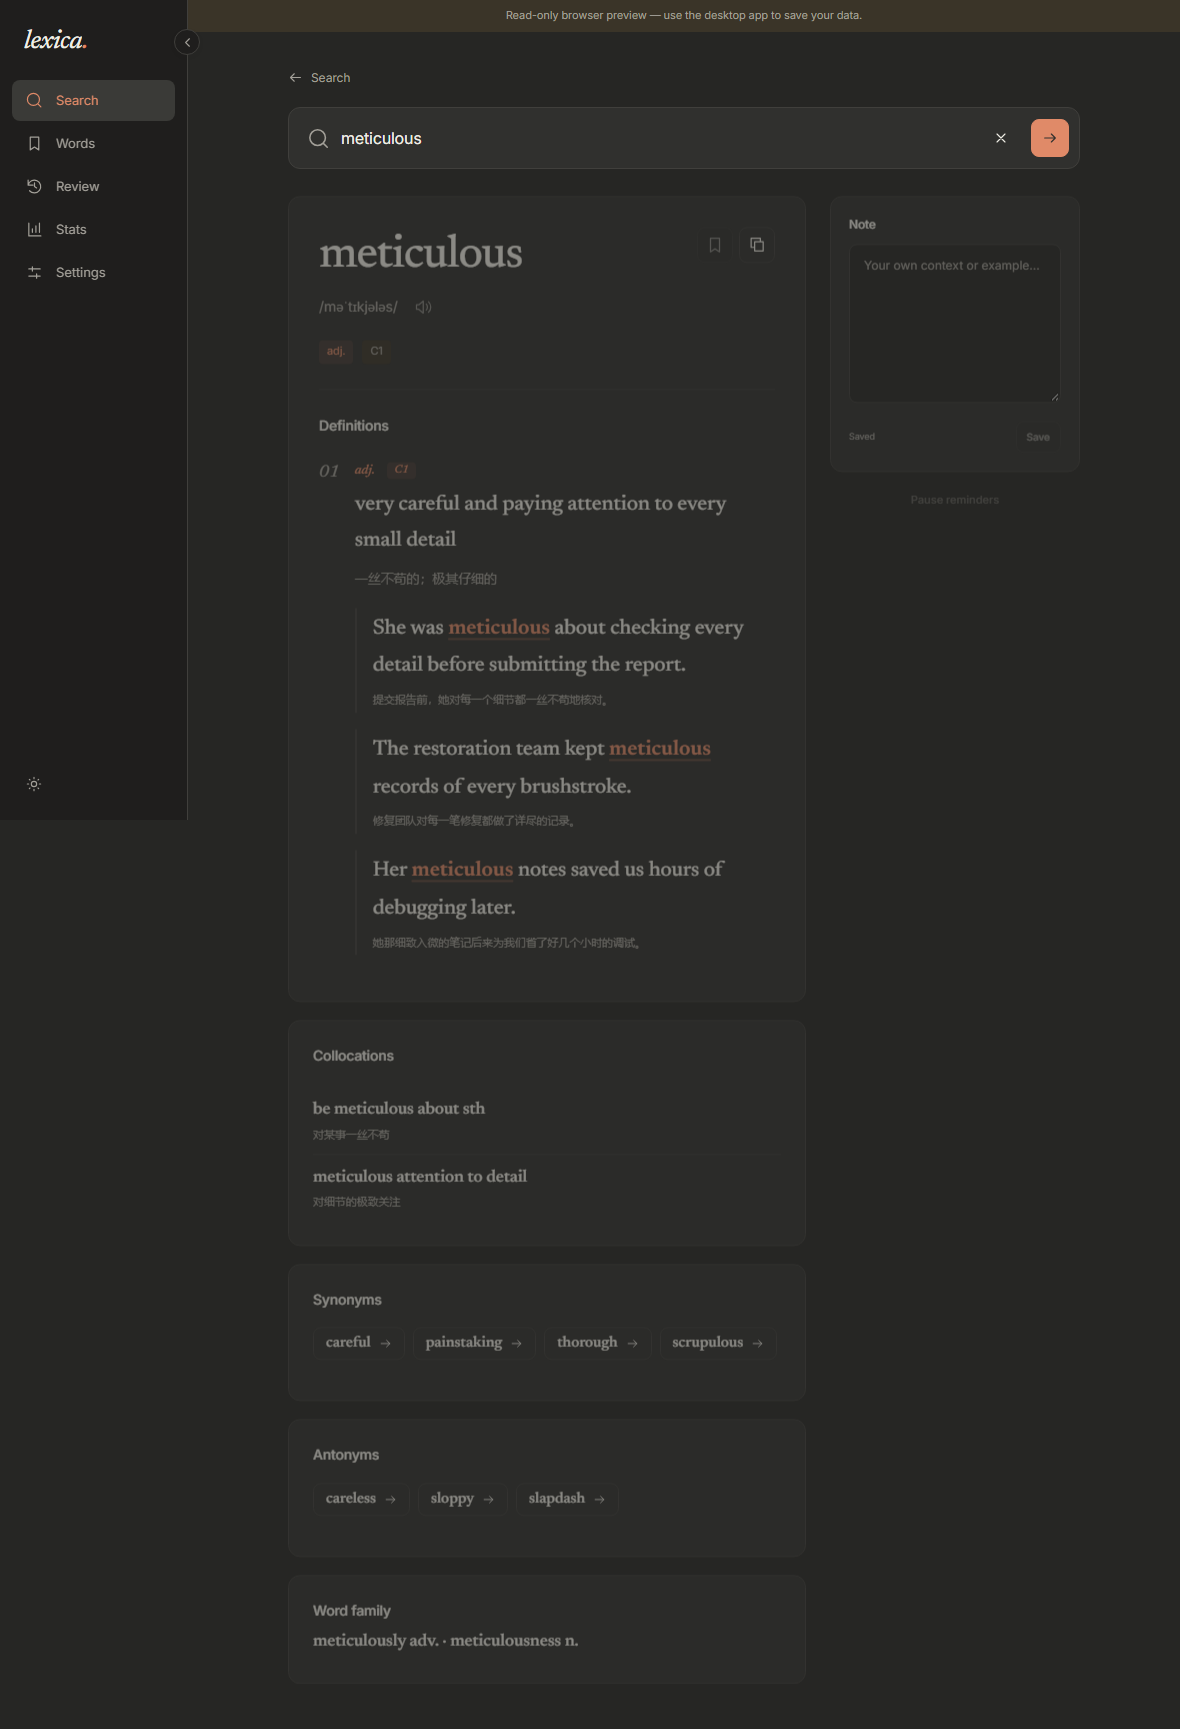
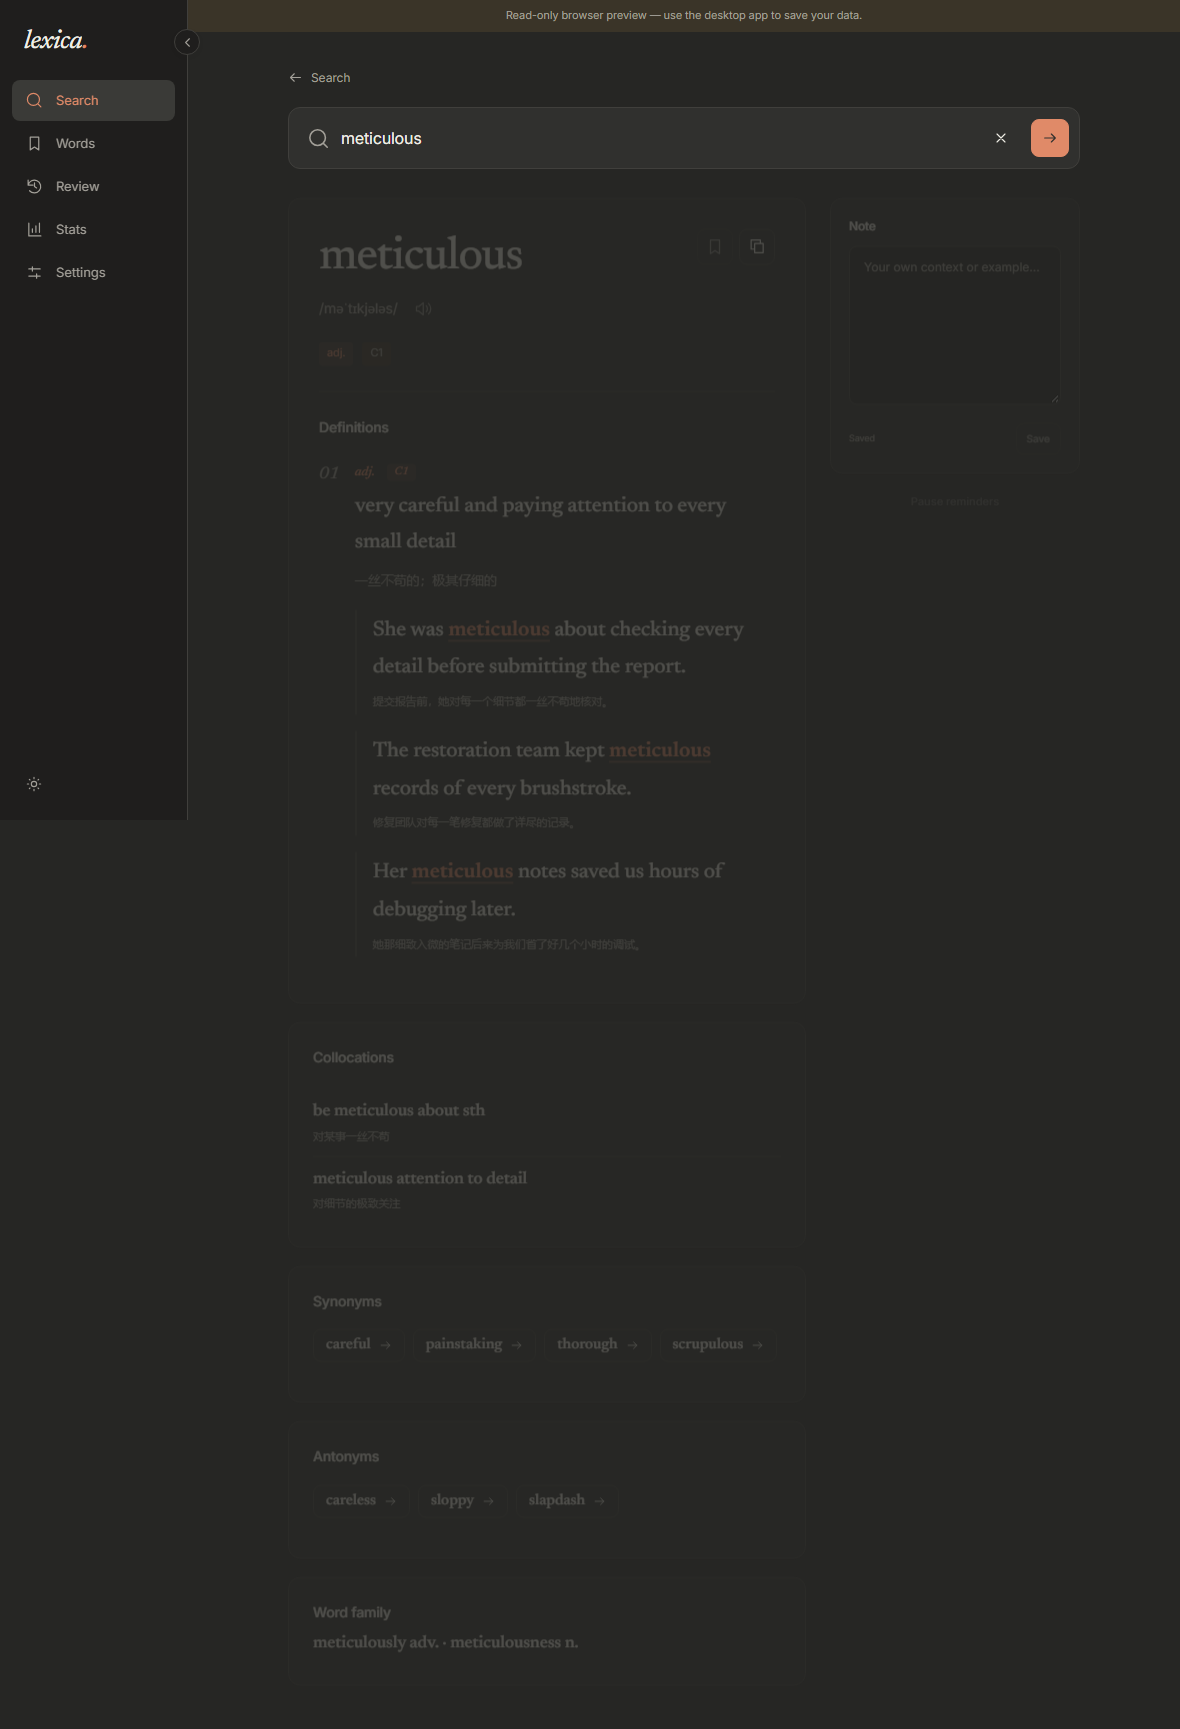
Document the project and add tag-triggered release CI
- Rewrite README: permanent download links, a feature tour that covers the
  optional AI example sentences, a screenshot gallery, the module layout and
  data model, build/release/test instructions, known limits, and the current
  license status.
- Add .github/workflows/release.yml: pushing a v* tag builds on Windows via
  tauri-action, runs svelte-check and the Rust tests first, publishes MSI and
  NSIS bundles, then uploads stable-named aliases so that
  /releases/latest/download/<fixed name> keeps working across versions.
- Capture the AI settings panel from the e2e suite and regenerate screenshots.

diff --git a/tests/app.spec.ts b/tests/app.spec.ts
@@ -881,6 +881,7 @@ test('AI settings: DeepSeek defaults, save, persistence and connection errors', 
 	await desktopFixture(page);
 	await page.goto('/settings');
 	await expect(page.getByRole('heading', { name: 'DeepSeek example sentences' })).toBeVisible();
+	await page.screenshot({ path: 'docs/screenshots/ai-settings.png', fullPage: true });
 	// Off by default.
 	await expect(page.getByRole('button', { name: 'Off', exact: true })).toHaveAttribute(
 		'aria-pressed',

diff --git a/README.md b/README.md
@@ -1,31 +1,169 @@
 # Lexica
 
-本地优先的英语词典：查词是理解的开始，逐渐不再需要查这个词，才是目的。
+> 本地优先的英语词典：查词是理解的开始，逐渐不再需要查这个词，才是目的。
 
-Tauri 2 · Rust · SQLite / FTS5 · SvelteKit 5。词库、收藏、笔记和学习记录保存在本机。
+[![release](https://img.shields.io/github/v/release/YinLingxiao/Lexica.)](https://github.com/YinLingxiao/Lexica./releases/latest)
+[![downloads](https://img.shields.io/github/downloads/YinLingxiao/Lexica./total)](https://github.com/YinLingxiao/Lexica./releases)
+![platform](https://img.shields.io/badge/platform-Windows%20x64-8a5a2b)
+![stack](https://img.shields.io/badge/Tauri%202-Rust%20%C2%B7%20SvelteKit%205-2f6f4e)
+
+**Tauri 2 · Rust · SQLite / FTS5 · SvelteKit 5**
+
+词库、收藏、笔记和学习记录全部保存在本机。除可选的 AI 例句补充外，应用不发起任何网络请求。
+
+![Lexica 首页](docs/screenshots/home-light.png)
+
+---
+
+## 下载
+
+Windows 10 / 11（x64），需要 WebView2 运行时（系统通常已预装）。
+
+| 文件 | 大小 | 说明 |
+| --- | --- | --- |
+| **[Lexica-setup.exe](https://github.com/YinLingxiao/Lexica./releases/latest/download/Lexica-setup.exe)** | ~3.5 MB | **推荐**。双击安装，自动创建开始菜单与桌面快捷方式 |
+| [Lexica.msi](https://github.com/YinLingxiao/Lexica./releases/latest/download/Lexica.msi) | ~5.3 MB | 适合企业批量部署 / 静默安装 |
+
+上面两个是**永久链接**，始终指向最新版本。也可以在 [Releases](https://github.com/YinLingxiao/Lexica./releases) 页面挑选具体版本。
+
+> ⚠ 安装包目前**没有代码签名**，Windows 可能提示"未知发布者"。选择「更多信息 → 仍要运行」即可。正式分发建议配置代码签名证书。
+
+---
 
 ## 功能
 
-- 探索词典：前缀建议、词形回退、键盘导航、查词历史、词条深链接。
-- 阅读：循序理解 / 完整词条、双语释义、例句高亮、搭配、近反义词跳转、复制词条。
-- 我的词汇：收藏、个人笔记、搜索、记忆阶段筛选、分页、暂停 / 恢复提醒。
-- 温故知新：最多 12 题的到期复习、三级提示、提交防重、反馈与完成摘要。
-- 学习洞察：14 天查词与复习活动、本地日期数据表、记忆阶段分布。
-- 偏好设置：浅色 / 深色 / 系统主题、阅读字号、查词模式、ECDICT 导入。
-- 发音使用系统已安装的离线英语语音；未安装时显示不可用状态。
+### 探索词典
+
+前缀建议、词形回退（`running` → `run`）、键盘上下选择、查词历史、词条深链接（`/?word=meticulous`）。
+
+### 阅读
+
+「循序理解」与「完整词条」两种密度，双语释义、例句目标词高亮、常见搭配、近反义词一键跳转、整条词条复制。
+
+### 我的词汇
+
+收藏、个人笔记、搜索、按记忆阶段筛选、分页，以及暂停 / 恢复提醒。
+
+### 温故知新
+
+最多 12 题的到期复习，三级递进提示（首字母 → 英文释义 → 中文释义）、提交防重、即时反馈与完成摘要。答错的词会重新排入本轮，重试不会重复计入正式记录。
+
+### AI 例句补充（可选，默认关闭）
+
+- 查词时若词典本身没有例句，补一条 AI 生成的例句；
+- 复习的填空句统一由 AI 生成，**判分永远在本地**完成。
+
+默认对接 DeepSeek（`https://api.deepseek.com/v1` + `deepseek-chat`），也可换成任何 OpenAI 兼容服务。
+
+安全与隐私设计：
+
+- API Key 存在 **Windows 凭据管理器**，不写入数据库、不写 localStorage、不进日志；
+- 发到前端的配置视图只报告"是否已配置密钥"，**绝不回传密钥本身**；
+- 生成结果在 Rust 侧校验（义项 ID 命中、句子非空、目标词完整词边界出现）并挖空后才交给前端，不合规条目直接丢弃并回退本地题目；
+- 有效例句按「词 + 义项 + 服务地址 + 模型 + 提示词版本」缓存，命中即跳过网络请求；
+- 单次请求 15 秒超时，**不自动重试**——失败即回退本地题目，不阻塞复习；
+- 等待网络期间不持有数据库锁。
+
+### 学习洞察
+
+14 天查词与复习活动、本地日期数据表、记忆阶段分布。
+
+### 偏好设置
+
+浅色 / 深色 / 系统主题（带圆形扩散过渡动画）、阅读字号、查词模式、ECDICT 导入、AI 例句配置。
+
+### 发音
+
+使用系统已安装的离线英语语音；未安装时明确显示为不可用，而不是静默失败。
+
+---
+
+## 截图
+
+| | |
+| --- | --- |
+| ![首页](docs/screenshots/home-light.png) | ![词条](docs/screenshots/word-light.png) |
+| 首页：搜索优先的布局 | 词条：完整词条视图 |
+| ![深色](docs/screenshots/word-dark.png) | ![复习](docs/screenshots/review-fixture.png) |
+| 深色主题 + 大字号 | 复习：三级提示全部展开 |
+| ![AI 设置](docs/screenshots/ai-settings.png) | ![移动端](docs/screenshots/settings-mobile.png) |
+| 设置：AI 例句补充面板 | 设置：480px 窄窗口适配 |
+
+> 截图取自**浏览器只读预览**（内置 50 个种子词，显示为 `50 entries · offline`）。桌面程序使用真实 ECDICT 词库，视觉与交互一致。
+> 截图由 e2e 测试自动生成到 `docs/screenshots/`，不是手工维护的。
+
+---
+
+## 首次使用
+
+1. **词库**：首次启动会引导下载 ECDICT 词库（约 200 MB，SQLite 版）。也可以跳过，在设置里手动导入自己的 `stardict.db`。
+2. **发音**：依赖系统离线英语语音。Windows 可在「设置 → 时间和语言 → 语音」里安装英文语音包。
+3. **AI 例句**（可选）：在设置里打开开关，填服务地址、模型和 API Key。
+
+---
+
+## 技术栈与架构
+
+业务规则全在 Rust，前端只负责展示、交互状态和外观偏好。
+
+```
+src-tauri/src/
+├── domain/       纯领域模型与规则（无 IO）
+├── dictionary/   词库引擎：FTS5 检索、前缀建议、词形回退、ECDICT provider
+├── memory/       记忆阶段投影与推进规则
+├── review/       出题、判分、记录（grader / model / service）
+├── library.rs    收藏、笔记、个人词汇查询、活动统计
+├── ai.rs         AI 例句补充（可选，默认关闭）
+├── database/     连接管理、版本化迁移、时间格式
+├── commands/     IPC 组合层（Tauri command）
+├── app.rs        应用状态与路径解析
+└── bin/          无头工具：import-ecdict
+```
+
+数据模型要点：
+
+- `encounters` 与已完成的 `reviews` 是**学习事实源**；`memory_states` 是**可重建投影**，随时能由事实源重算。
+- 迁移按序号顺序应用，`PRAGMA user_version` 记录版本。当前 schema **v4**：
+  `0001_init` → `0002_freq_rank_index` → `0003_word_notes` → `0004_ai_examples`。
+- 迁移只增不删，不会破坏旧词库或历史记录。
+- 默认数据库位于应用数据目录；其中的 `db_dir.txt` 可指向其他数据目录，**重启后生效**。
+
+前端：
+
+```
+src/
+├── routes/       SvelteKit 路由：/ · /library · /review · /stats · /settings
+├── lib/api.ts    Tauri IPC 封装（浏览器预览时走只读夹具）
+├── lib/preview.ts 浏览器只读预览实现（生产包不含）
+└── lib/components/
+```
+
+浏览器外观偏好与桌面应用偏好各自独立；个人词汇数据始终只存在桌面 SQLite 中。
+
+---
 
 ## 开发
 
-需要 Node.js、Rust MSVC 工具链、Windows C++ 构建工具与 WebView2。
+需要 **Node.js**、**Rust MSVC 工具链**、**Windows C++ 构建工具**与 **WebView2**。
 
 ```bash
 npm install
 npm run tauri dev
 ```
 
-单独运行 `npm run dev` 可打开浏览器只读预览。它使用 50 个内置种子词，不能保存学习记录；真实功能请在 Tauri 桌面程序中使用。生产包不包含浏览器预览实现。
+只跑前端：
+
+```bash
+npm run dev
+```
+
+`npm run dev` 打开的是**浏览器只读预览**，使用 50 个内置种子词，不能保存学习记录；真实功能请在 Tauri 桌面程序中使用。生产包不包含浏览器预览实现。
+
+---
 
 ## 构建
+
+### 独立可执行文件
 
 ```bash
 npm run build
@@ -33,45 +171,97 @@ cd src-tauri
 cargo build --release --features custom-protocol --bin lexica
 ```
 
-Windows 可执行文件：`src-tauri/target/release/lexica.exe`。`custom-protocol` 保证前端资源内嵌，不依赖开发服务器。
+产物：`src-tauri/target/release/lexica.exe`。
 
-需要 Windows 安装包时，在项目根目录运行：
+`custom-protocol` 特性在 release 构建中**必须启用**——`generate_context!` 靠它区分 dev（从 devUrl 热加载）与 release（把 `build/` 前端资产内嵌进二进制），否则产物不依赖开发服务器就无法运行。
+
+### Windows 安装包
 
 ```bash
 npm install
 npm run tauri build
 ```
 
-成功后会生成：
+产物：
 
-- `src-tauri/target/release/lexica.exe`：免安装的独立桌面程序。
-- `src-tauri/target/release/bundle/msi/Lexica_0.1.0_x64_en-US.msi`：适合 Windows 企业部署和标准安装流程的 MSI。
-- `src-tauri/target/release/bundle/nsis/Lexica_0.1.0_x64-setup.exe`：适合普通用户双击安装的 Setup EXE。
+- `src-tauri/target/release/bundle/msi/Lexica_0.1.0_x64_en-US.msi`
+- `src-tauri/target/release/bundle/nsis/Lexica_0.1.0_x64-setup.exe`
 
-版本号和产品名来自 `src-tauri/tauri.conf.json`。发布新版本前修改其中的 `version`，再重新运行构建命令。当前安装包没有代码签名，分发到其他电脑时 Windows 可能显示“未知发布者”；正式公开发布建议为 MSI 和 EXE 配置代码签名证书。
+版本号和产品名来自 `src-tauri/tauri.conf.json`，发布新版本前先改其中的 `version`。
+
+### 无头词库导入
+
+不启动 GUI，直接把 ECDICT 导入目标库（与应用内导入走同一条 `EcdictProvider` 代码路径）：
+
+```bash
+cargo run --release --bin import-ecdict -- <stardict.db> <lexica.db>
+```
+
+目标库不存在时自动创建并迁移；已导入过则幂等跳过（0 新增）。
+
+---
+
+## 发布
+
+推一个 `v*` 标签即可，GitHub Actions 会自动在 Windows 上构建、跑检查、创建 Release 并上传安装包：
+
+```bash
+git tag v0.2.0
+git push origin v0.2.0
+```
+
+工作流见 [`.github/workflows/release.yml`](.github/workflows/release.yml)。除了带版本号的产物，它还会额外上传一份固定文件名的副本（`Lexica-setup.exe` / `Lexica.msi`），这样 `releases/latest/download/<固定名>` 永远指向最新版本，下载页不需要随版本改链接。
+
+---
 
 ## 测试
 
 ```bash
-npm run check
+npm run check                                  # svelte-check：0 错误 0 警告
 npm run build
 npx playwright install chromium
-npm run test:e2e
+npm run test:e2e                               # 28 个界面测试
 cd src-tauri
-cargo test
+cargo test                                     # 77 个 Rust 测试
 cargo clippy --all-targets -- -D warnings
 ```
 
-界面测试使用只读预览和隔离的 IPC 夹具；Rust 测试验证真实 SQLite 存储和记忆规则。界面截图保存在 `docs/screenshots/`。`npm run format` 统一前端和测试代码格式。
+- **界面测试**（Playwright）覆盖只读预览与隔离的 IPC 夹具：键盘选词、三级提示顺序、防重复提交、错词重排、主题过渡动画、AI 回退与缓存、窄窗口适配等。
+- **Rust 测试**验证真实 SQLite 存储与记忆规则。
+- 界面截图保存在 `docs/screenshots/`，由测试自动生成。
+- `npm run format` 统一前端和测试代码格式。
 
-## 数据与架构
+---
 
-- 字典与记忆业务规则在 Rust，前端负责展示、交互状态和外观偏好。
-- `domain` → `dictionary` / `memory` / `review`，`commands` 是 IPC 组合层。
-- `library` 管理收藏、笔记、个人词汇查询与活动统计。
-- `encounters` 和已完成的 `reviews` 为学习事实源，`memory_states` 为可重建投影。
-- schema v3 新增 `word_notes`，不删除旧词库或历史记录。
-- 默认数据库位于应用数据目录；其中的 `db_dir.txt` 可指向其他数据目录，重启后生效。
-- 浏览器外观偏好与桌面应用偏好各自独立；个人词汇数据始终在桌面 SQLite 中。
+## 数据与隐私
+
+- 词库、收藏、笔记、复习记录全部保存在**本机** SQLite。
+- 除可选的 AI 例句补充外，**不发起任何网络请求**。
+- 开启 AI 例句后，只会把当前单词与释义发送到**你自己配置**的服务地址；判分始终在本地。
+- API Key 存 Windows 凭据管理器，应用绝不记录或回传密钥。
+
+---
+
+## 已知限制
+
+- 仅提供 **Windows x64** 版本（MSI / NSIS），暂无 macOS 与 Linux 构建。
+- 安装包**未做代码签名**，SmartScreen 会提示"未知发布者"。
+- 发音依赖系统已安装的离线英语语音。
+- 词库首次导入需要约 200 MB 下载，或自备 `stardict.db`。
+- AI 例句补充需要自备第三方 API Key，会产生相应费用。
+
+---
+
+## 许可证
+
+尚未指定。在添加 `LICENSE` 文件之前，本仓库默认保留所有权利（all rights reserved），他人无法合法地使用、修改或分发。
+
+如果希望别人能自由使用，建议补一个 [MIT](https://choosealicense.com/licenses/mit/) 或 [Apache-2.0](https://choosealicense.com/licenses/apache-2.0/) 许可证。
+
+---
+
+## 致谢
 
 完整审查、已落实事项、验证边界和后续优先级见 [项目审查报告](docs/PROJECT_REVIEW.md)。
+
+设置页署名图标点击后跳转至 [github.com/YinLingxiao](https://github.com/YinLingxiao)。
